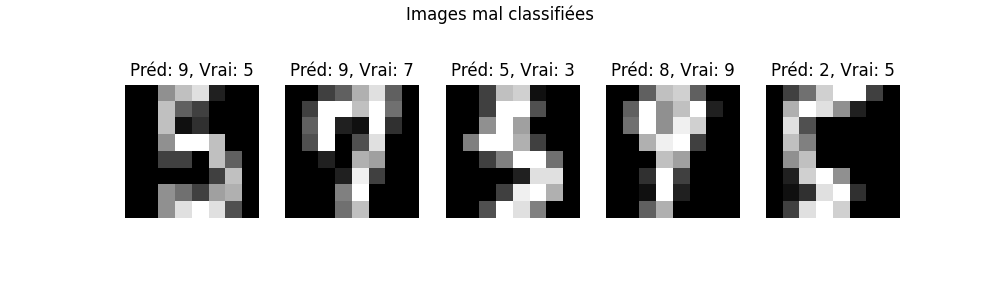
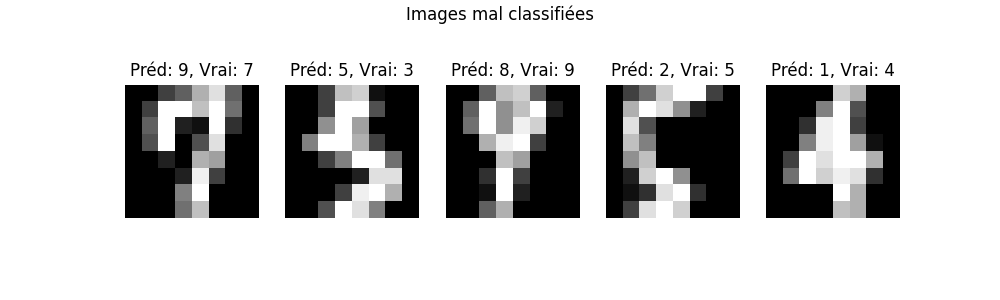
utilisation de mydescent

diff --git a/projet-v1/main.py b/projet-v1/main.py
@@ -6,8 +6,9 @@ from sklearn.datasets import load_digits
 from sklearn.model_selection import train_test_split
 from sklearn.preprocessing import OneHotEncoder
 from sklearn.linear_model import LogisticRegression
-from sklearn.metrics import accuracy_score
+from sklearn.metrics import accuracy_score, confusion_matrix, classification_report
 import matplotlib.pyplot as plt
+from my_descent import GradientDescent
 
 
 # 1. Traitement initial des données
@@ -34,10 +35,10 @@ def get_data():
 
 # 2. Implémentation from scratch
 class CustomLogisticRegression:
-    def __init__(self, learning_rate=0.01, max_iter=1000, alpha=0.1):
+    def __init__(self, learning_rate=0.01, max_iter=1000, alpha=0.0):
         """
         Initialise le modèle de régression logistique
-        alpha: float, paramètre de régularisation L2
+        alpha: float, paramètre de régularisation L2 (0 pour sans régularisation)
         """
         self.learning_rate = learning_rate
         self.max_iter = max_iter
@@ -53,22 +54,26 @@ class CustomLogisticRegression:
         n_samples, n_features = X.shape
         n_classes = y.shape[1]
 
-        # Initialisation des paramètres
-        self.W = np.zeros((n_classes, n_features))
-        self.b = np.zeros(n_classes)
+        # Taille de theta
+        theta_size = n_classes * n_features + n_classes
+        theta = np.zeros(theta_size)
 
-        # Descente de gradient
-        for _ in range(self.max_iter):
-            z = X @ self.W.T + self.b
+        def gradient(theta):
+            W = theta[: n_classes * n_features].reshape(n_classes, n_features)
+            b = theta[n_classes * n_features :]
+            z = X @ W.T + b
             probs = self._softmax(z)
-
-            # Calcul du gradient avec régularisation L2
-            grad_W = (1 / n_samples) * (probs - y).T @ X + self.alpha * self.W
+            grad_W = (1 / n_samples) * (probs - y).T @ X + self.alpha * W
             grad_b = (1 / n_samples) * np.sum(probs - y, axis=0)
+            return np.concatenate([grad_W.flatten(), grad_b])
 
-            # Mise à jour des paramètres
-            self.W -= self.learning_rate * grad_W
-            self.b -= self.learning_rate * grad_b
+        # Utilisation de la classe GradientDescent
+        descent_obj = GradientDescent(gradient, self.learning_rate, self.max_iter)
+        optimal_theta, _ = descent_obj.descent(theta, taux_erreur=1e-6)
+
+        # Reshape des paramètres optimaux
+        self.W = optimal_theta[: n_classes * n_features].reshape(n_classes, n_features)
+        self.b = optimal_theta[n_classes * n_features :]
 
     def predict(self, X):
         z = X @ self.W.T + self.b
@@ -102,6 +107,12 @@ print("\n### Results Comparison ###")
 print(f"Custom Model Test Accuracy:   {accuracy_custom:.4f}")
 print(f"Scikit-learn Model Test Accuracy: {accuracy_sklearn:.4f}")
 
+# Matrices de confusion
+print("\nConfusion Matrix Custom Model:")
+print(confusion_matrix(y_test, y_pred_custom))
+print("\nConfusion Matrix Scikit-learn Model:")
+print(confusion_matrix(y_test, y_pred_sklearn))
+
 # 5. BONUS: Implémentation avec Régularisation L2
 print("\n### Bonus: L2 Regularization ###")
 print("Training custom model with L2 regularization...")
@@ -112,6 +123,30 @@ y_pred_regularized = regularized_model.predict(X_test)
 accuracy_regularized = accuracy_score(y_test, y_pred_regularized)
 print(f"Regularized Custom Model Test Accuracy: {accuracy_regularized:.4f}")
 
+# 5.5 Analyse de l'influence des paramètres
+print("\n### Parameter Influence Analysis ###")
+
+# Influence du learning_rate
+learning_rates = [0.001, 0.01, 0.1]
+lr_accuracies = []
+for lr in learning_rates:
+    model = CustomLogisticRegression(learning_rate=lr, alpha=0.0)
+    model.fit(X_train, y_train_onehot)
+    pred = model.predict(X_test)
+    acc = accuracy_score(y_test, pred)
+    lr_accuracies.append(acc)
+print(f"Test accuracies for learning_rates {learning_rates}: {lr_accuracies}")
+
+# Influence de la régularisation
+alphas = [0.0, 0.01, 0.1]
+alpha_accuracies = []
+for alpha in alphas:
+    model = CustomLogisticRegression(alpha=alpha)
+    model.fit(X_train, y_train_onehot)
+    pred = model.predict(X_test)
+    acc = accuracy_score(y_test, pred)
+    alpha_accuracies.append(acc)
+print(f"Test accuracies for alphas {alphas}: {alpha_accuracies}")
 
 # 6. Analyse des résultats
 print("\n### Results Analysis ###")

diff --git a/projet-v1/my_descent.py b/projet-v1/my_descent.py
@@ -1,0 +1,66 @@
+# -*- coding: utf-8 -*-
+"""
+Created on Mon Jan  8 16:45:29 2024
+
+@author: JDION
+"""
+
+"""
+Création de la classe GradientDescent utilisée durant l'intégralité de ce cours
+"""
+import numpy as np
+
+
+class GradientDescent:
+
+    def __init__(self, gradient, learning_rate, max_iterations):
+        """
+        Initialise l'objet GradientDescent avec les paramètres nécessaires.
+
+        Paramètres :
+        - gradient : La fonction gradient de la fonction de coût.
+        - learning_rate : Taux d'apprentissage (pas) pour la mise à jour des paramètres.
+        - max_iterations : Nombre maximal d'itérations de l'algorithme de descente.
+        """
+
+        self.gradient = gradient
+        self.learning_rate = learning_rate
+        self.max_iterations = max_iterations
+
+    def descent(self, initial_point, taux_erreur):
+        """
+        Effectue l'algorithme de descente de gradient.
+
+        Paramètres :
+        - initial_point : Le point de départ de l'algorithme (array 1D).
+        - taux_erreur : Seuil de tolérance sur la norme du gradient.
+
+        Retourne :
+        - Le point optimal trouvé par l'algorithme.
+        - Le nombre d'itérations effectuées.
+        """
+        nb_iter = 0
+        for i in range(self.max_iterations):
+            grad = self.gradient(initial_point)
+            if np.linalg.norm(grad) <= taux_erreur:
+                return (initial_point, nb_iter)
+            else:
+                initial_point = self.update(initial_point, grad)
+                nb_iter += 1
+
+        return (initial_point, nb_iter)
+
+    def update(self, point, gradient_value):
+        """
+        Met à jour le point en utilisant le gradient et le taux d'apprentissage.
+
+        Paramètres :
+        - point : Le point à mettre à jour.
+        - gradient_value : Le gradient de la fonction de coût au point donné.
+
+        Retourne :
+        - Le nouveau point après la mise à jour.
+        """
+        new_point = point - self.learning_rate * gradient_value
+
+        return new_point
